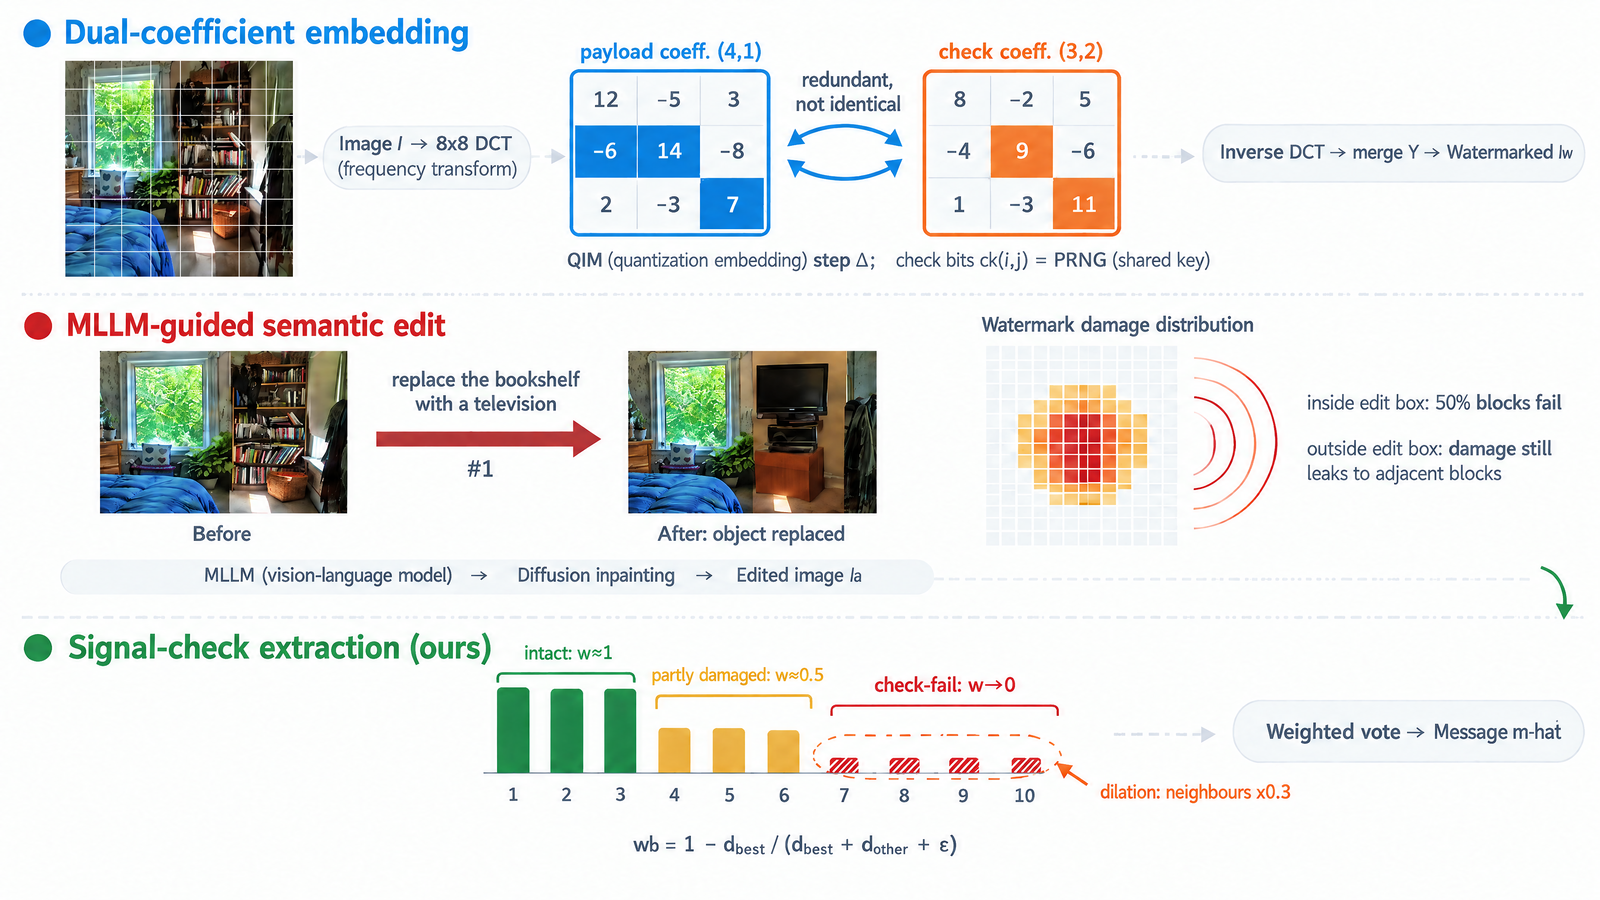
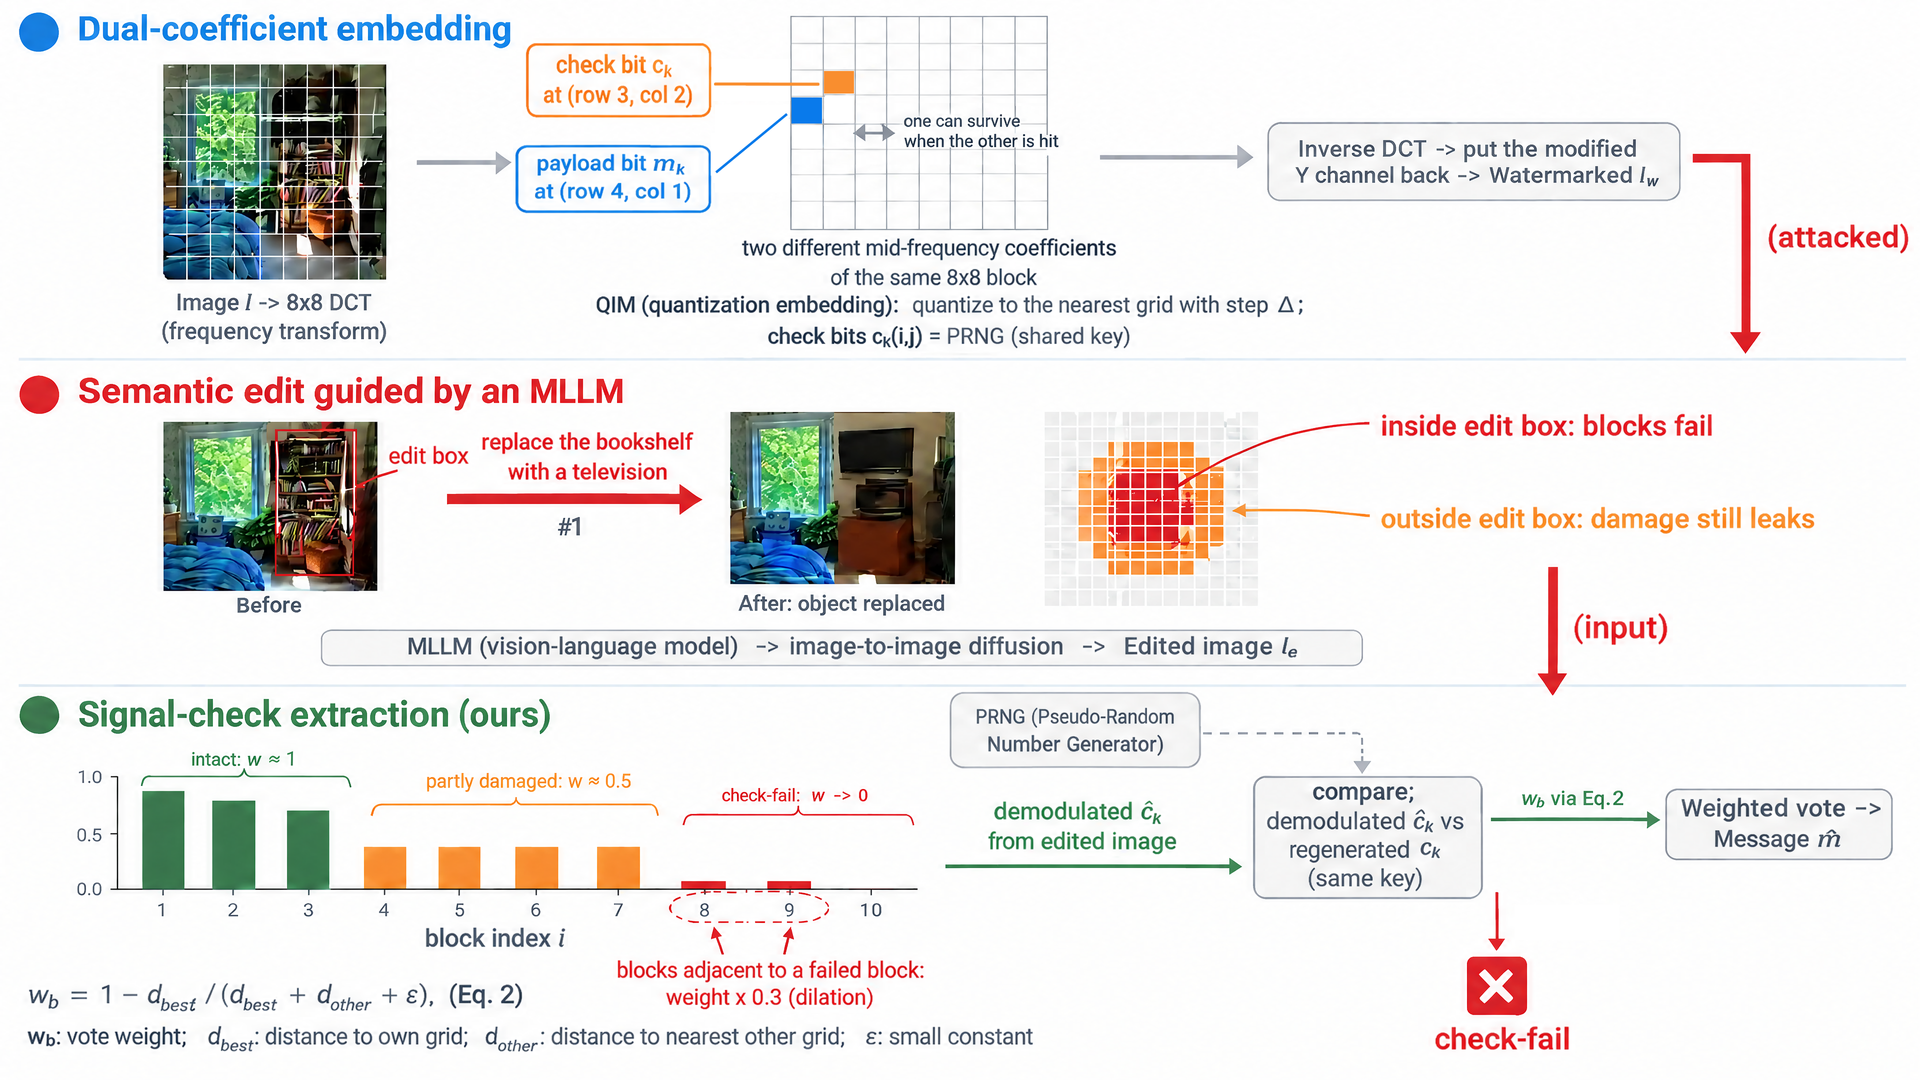
Update the README figures to the current manuscript versions
- assets/teaser.png: current motivation figure (figures/teaser.pdf produced by
  code/make_teaser.py), alpha-composited on white and downscaled to 1920 px
- assets/framework.png: current framework figure (paper/figures/framework.png,
  the file included by the manuscript), downscaled to 1920 px
- README: the teaser caption now describes what the figure shows (about half of the
  blocks inside the declared region fail, roughly an eighth of the adjacent blocks
  just outside it, clean baseline further out)

diff --git a/README.md b/README.md
@@ -178,10 +178,15 @@ unchanged.
 
 ## Key findings
 
-![Teaser: damage is not confined to the edit region](assets/teaser.png)
+![Teaser: the watermark damage follows the block grid, not the declared box](assets/teaser.png)
 
-*A semantic edit is locally invisible but the watermark damage is not local: orange marks
-check-bit failures, which leak well outside the declared edit box.*
+*Semantic editing is local, but the watermark damage follows the block grid. Orange marks
+check-bit failures: about half of the blocks inside the declared region (red dashed) fail their
+check, roughly an eighth of the immediately adjacent blocks just outside it fail, and blocks
+further out sit at the clean-image false-failure baseline. Because about half of the inside
+blocks still vote correctly, a defense that discards the whole declared region throws those
+votes away while also missing the boundary ring — which is why the damage is localized from the
+watermark signal itself.*
 
 1. **Semantic edits damage the watermark outside the edited region.** A bounding-box oracle that
    discards only the declared edit box underperforms the check-bit defense, because the damage
